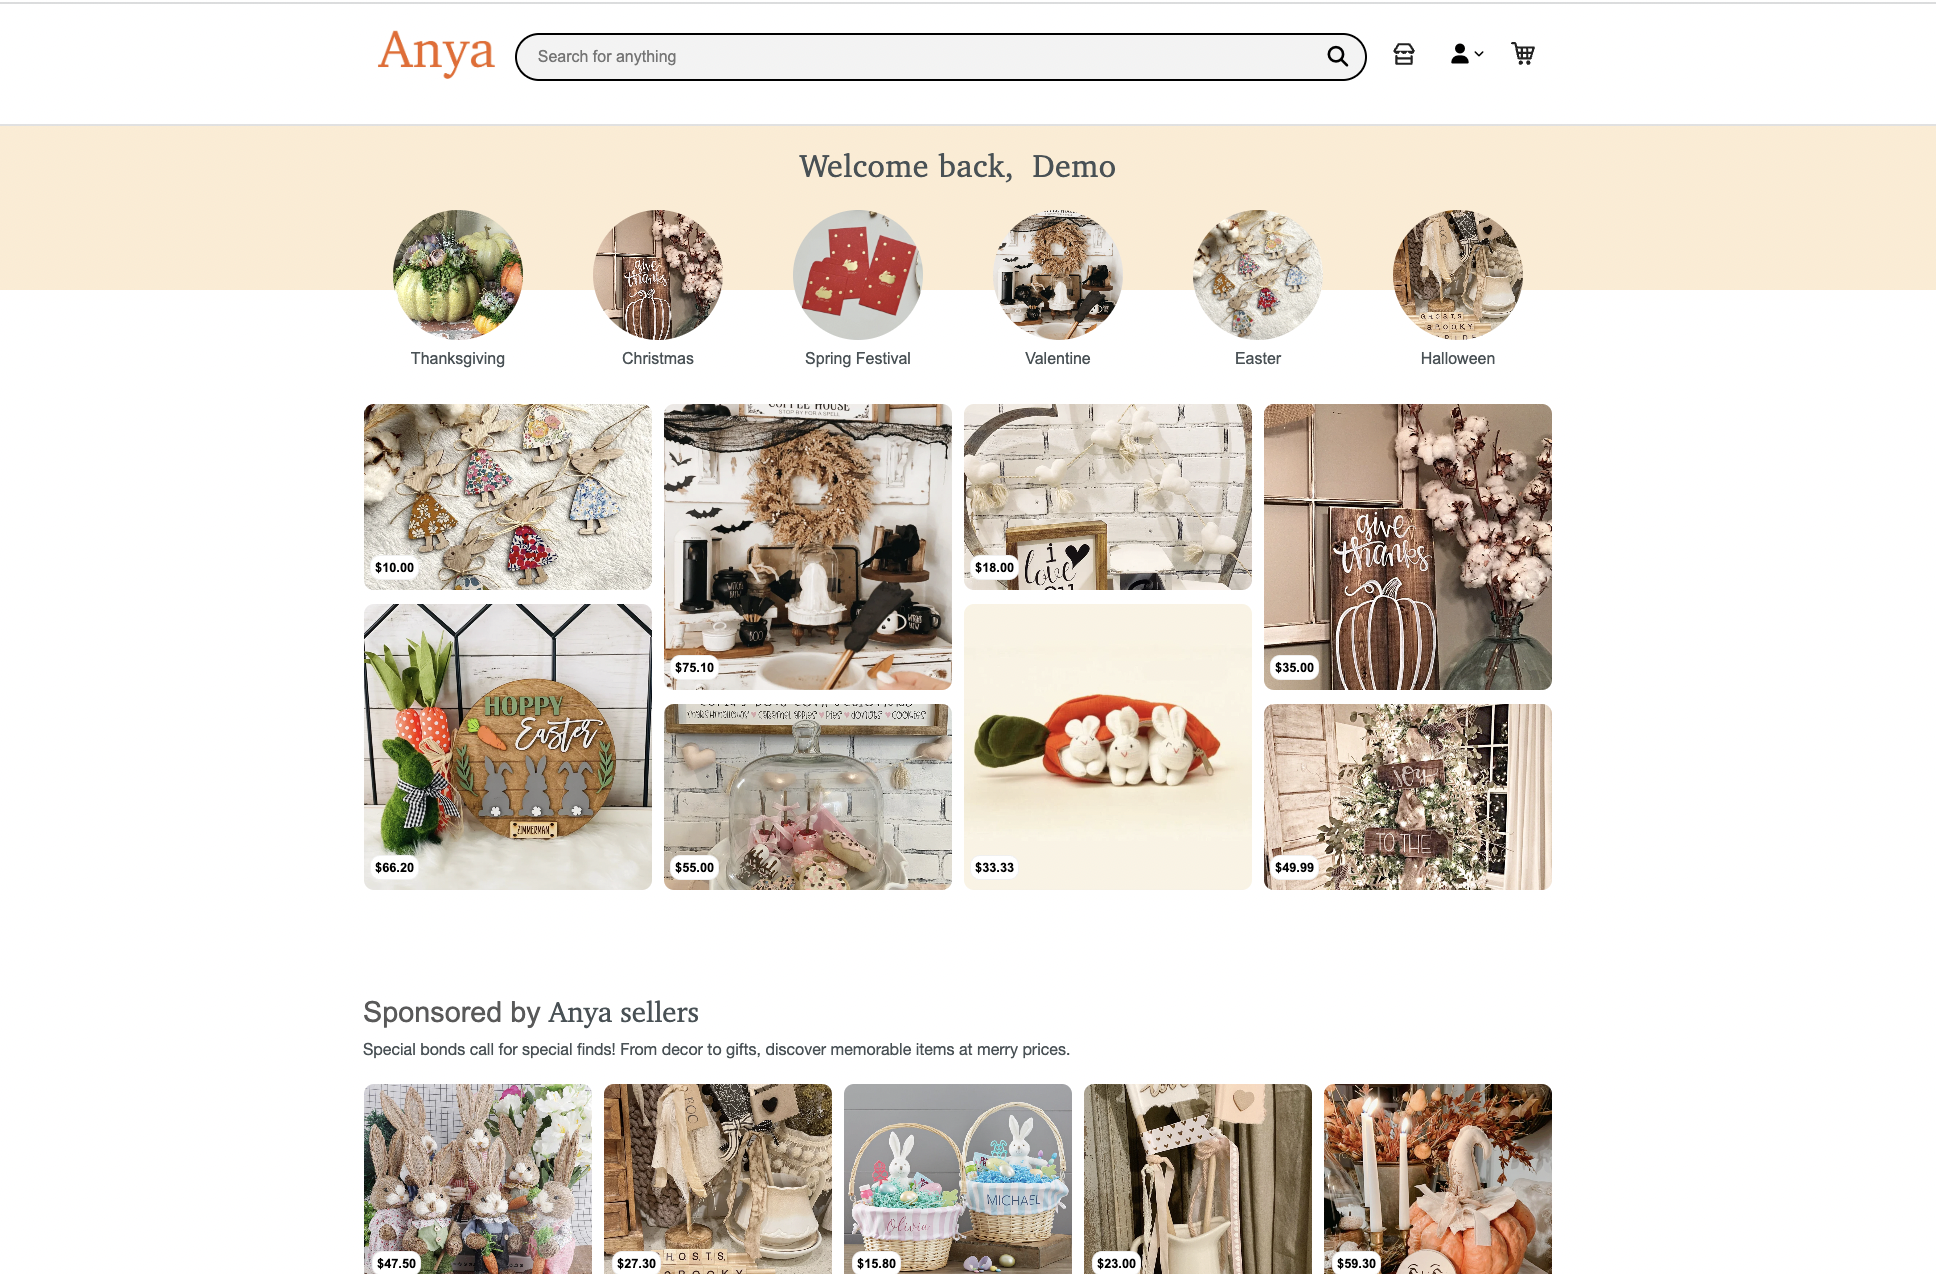
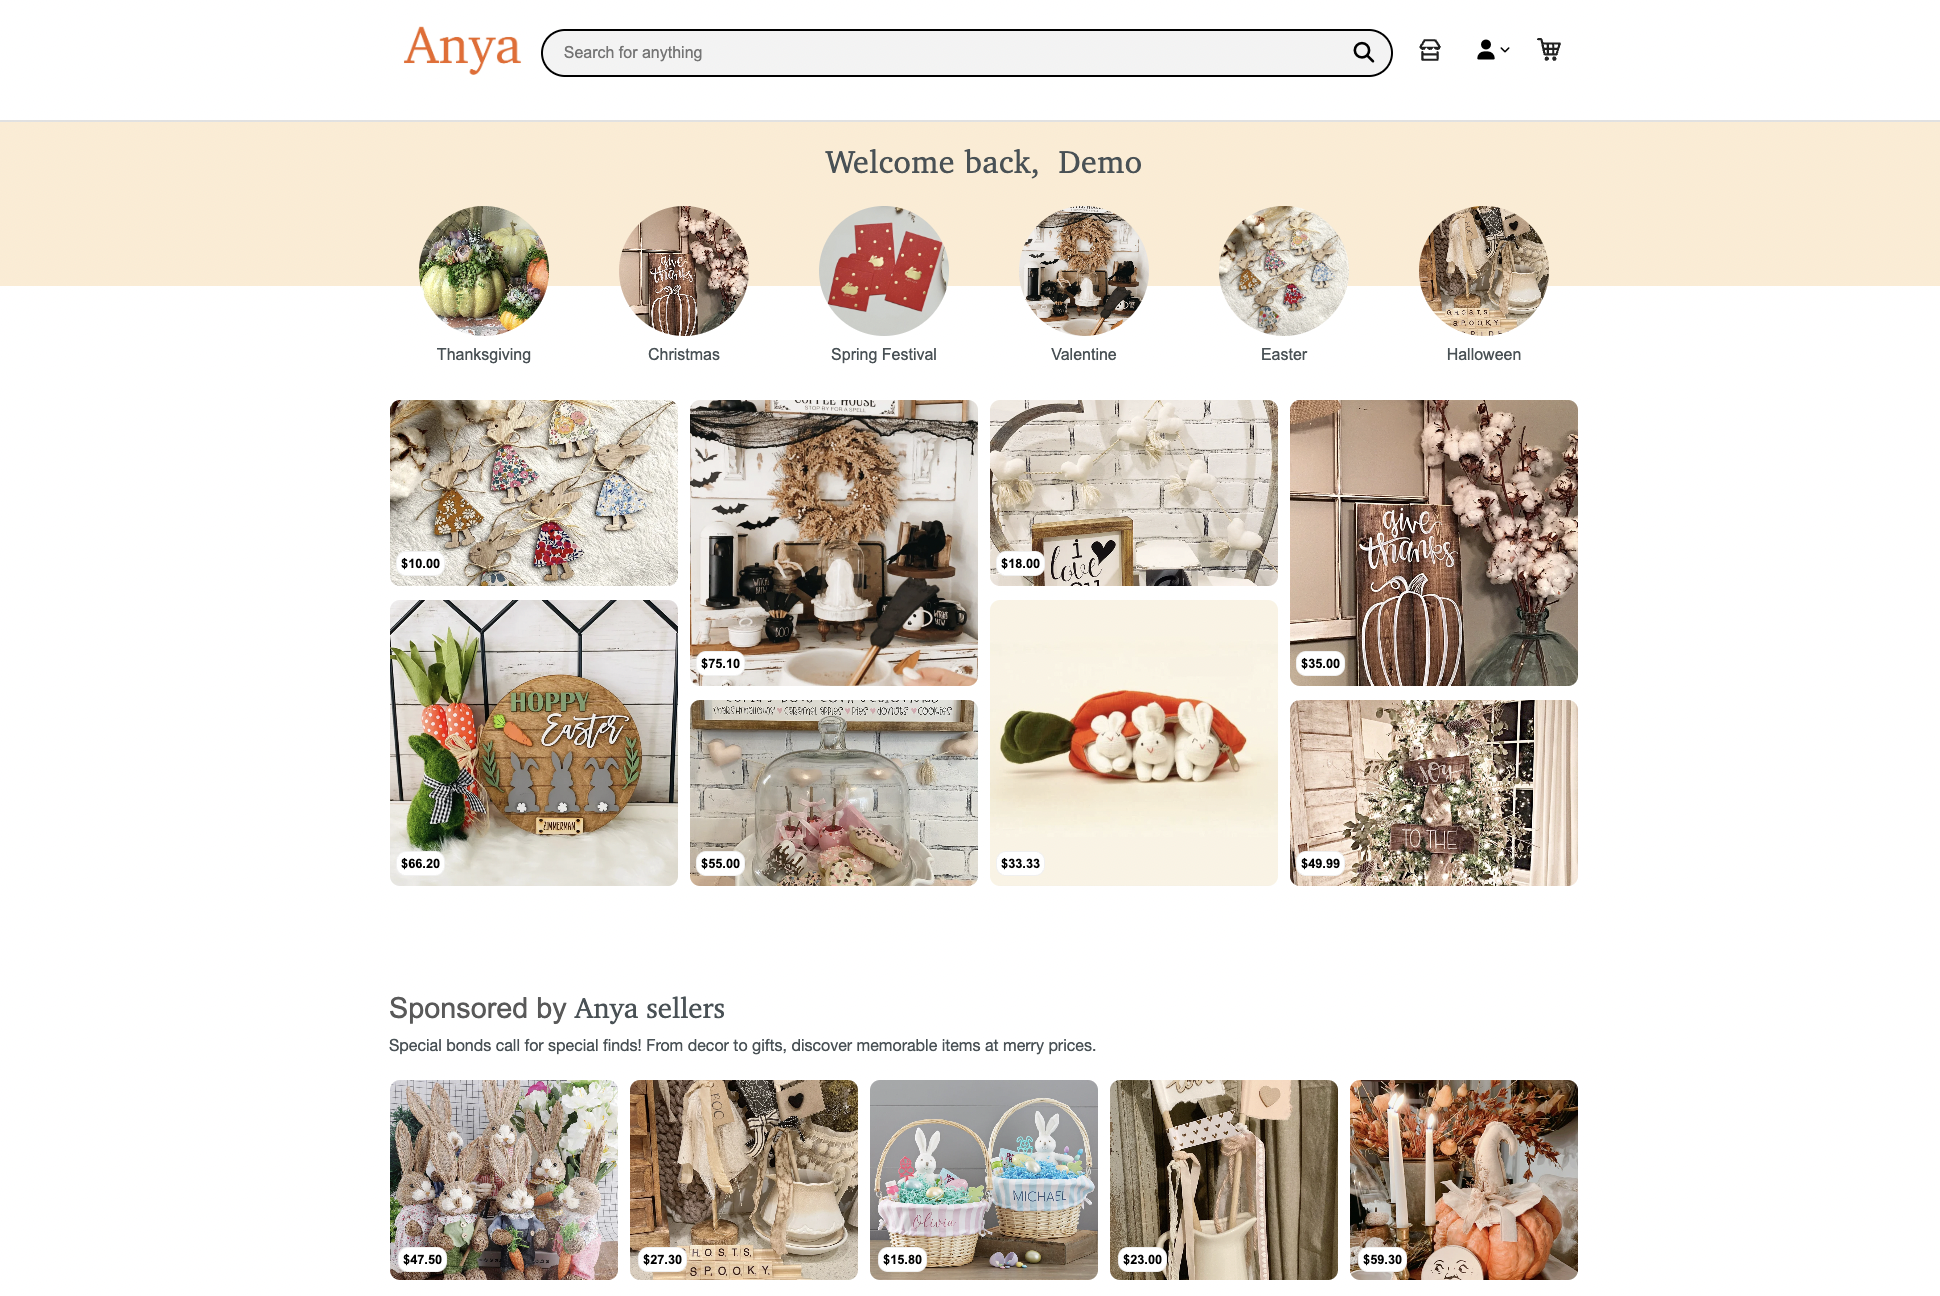
anya

diff --git a/css/layout.css b/css/layout.css
@@ -552,7 +552,8 @@ fieldset[disabled] .btn-theme {
 
 .header .logo-img {
   display: inline-block;
-  width: 76px;
+  /* width: 76px; */
+  width: 106px;
   height: auto;
   max-width: 100%;
   max-height: 100%;
